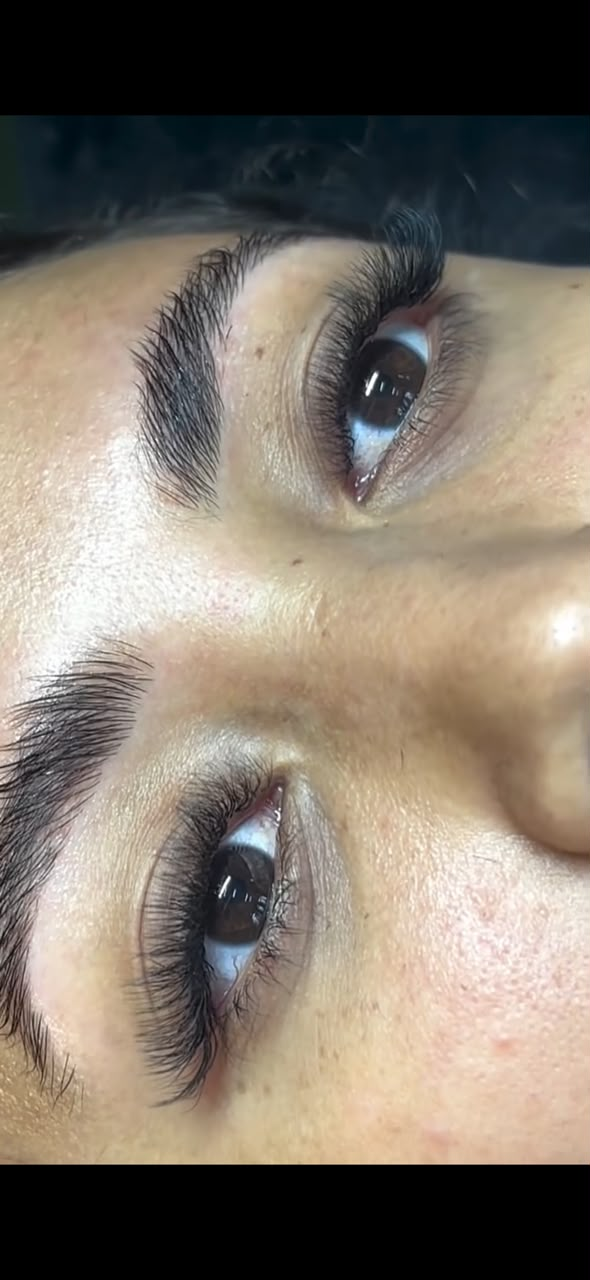
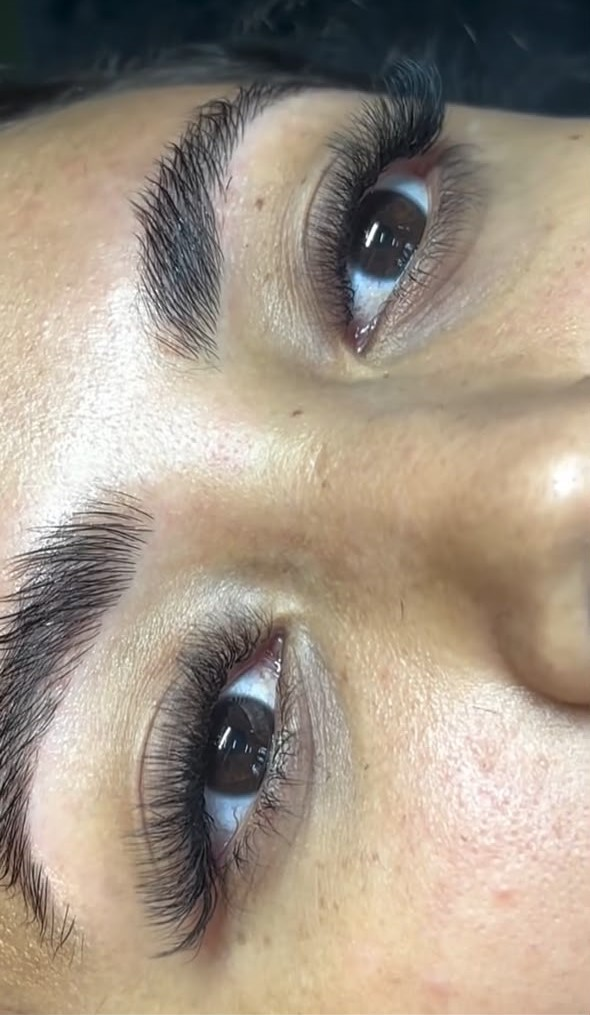
Use landscape-card crops for Classic and Volume Set service images

diff --git a/frontend/src/pages/Services.js b/frontend/src/pages/Services.js
@@ -32,9 +32,9 @@ export const allCategories = [
     label: 'Eyelash Extensions',
     icon: <FiEye size={20} />,
     services: [
-      { name: 'Classic Set', description: 'One extension applied to each natural lash for a subtle, natural enhancement.', image: '/images/IMG-20260826-WA0008.jpg', price: 'RWF 45,000', pos: 'center' },
+      { name: 'Classic Set', description: 'One extension applied to each natural lash for a subtle, natural enhancement.', image: '/images/IMG-20260826-WA0008-card.jpg', price: 'RWF 45,000' },
       { name: 'Hybrid Set', description: 'A mix of classic and volume techniques creating a textured, wispy look.', image: '/images/IMG-20260826-WA0009.jpg', price: 'RWF 50,000' },
-      { name: 'Volume Set', description: 'Multiple lightweight fans applied to each natural lash for a full, dramatic appearance.', image: '/images/IMG-20260826-WA0010.jpg', price: 'RWF 55,000' },
+      { name: 'Volume Set', description: 'Multiple lightweight fans applied to each natural lash for a full, dramatic appearance.', image: '/images/IMG-20260826-WA0010-card.jpg', price: 'RWF 55,000' },
       { name: 'Mega Volume Set', description: 'Ultra-dramatic look using the finest fans of 6-16 lashes per natural lash.', image: '/images/IMG-20260826-WA0012.jpg', price: 'RWF 60,000' },
       { name: 'Wispy Sets', description: 'A trendy, textured style with varying lengths creating a doll-like effect.', image: '/images/IMG-20260826-WA0013.jpg', price: 'RWF 45,000 – 60,000' },
       { name: 'Lash Removal', description: 'Professional and safe removal of eyelash extensions protecting your natural lashes.', image: '/images/IMG-20260826-WA0015.jpg', price: 'RWF 5,000' },
